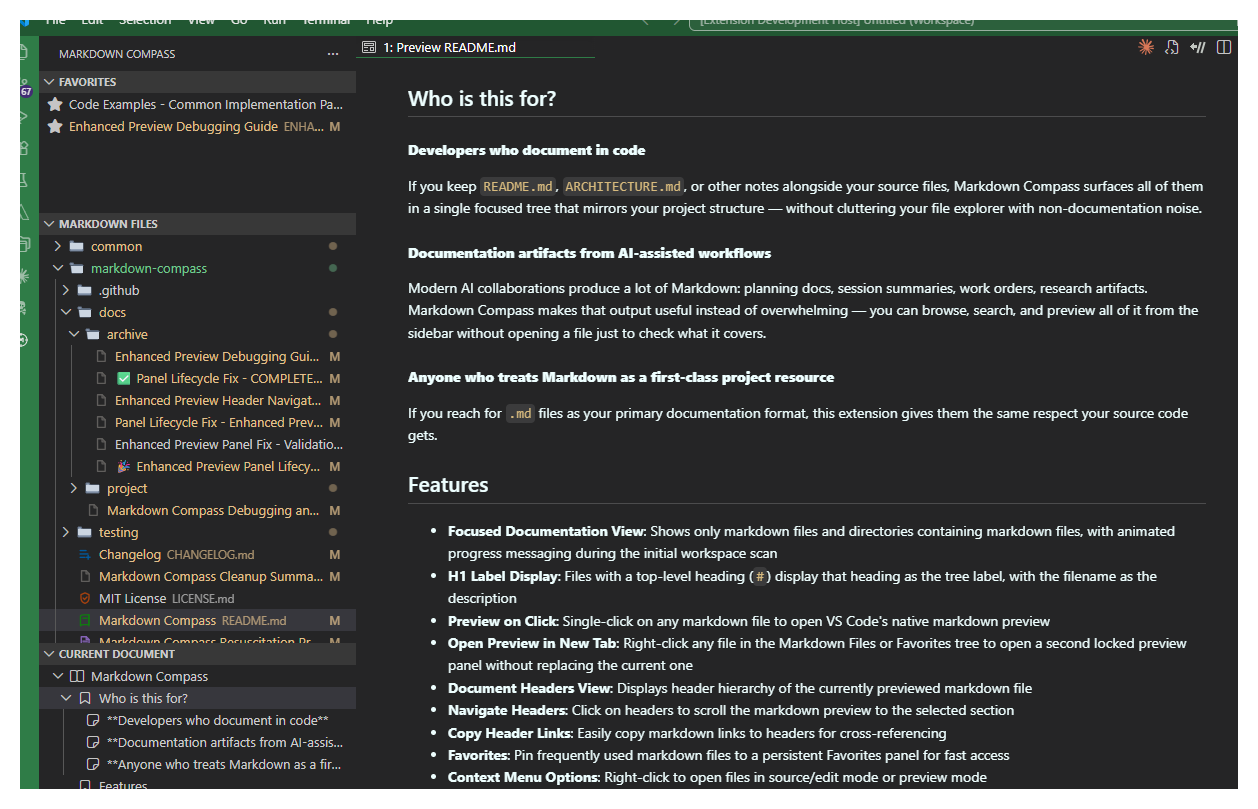
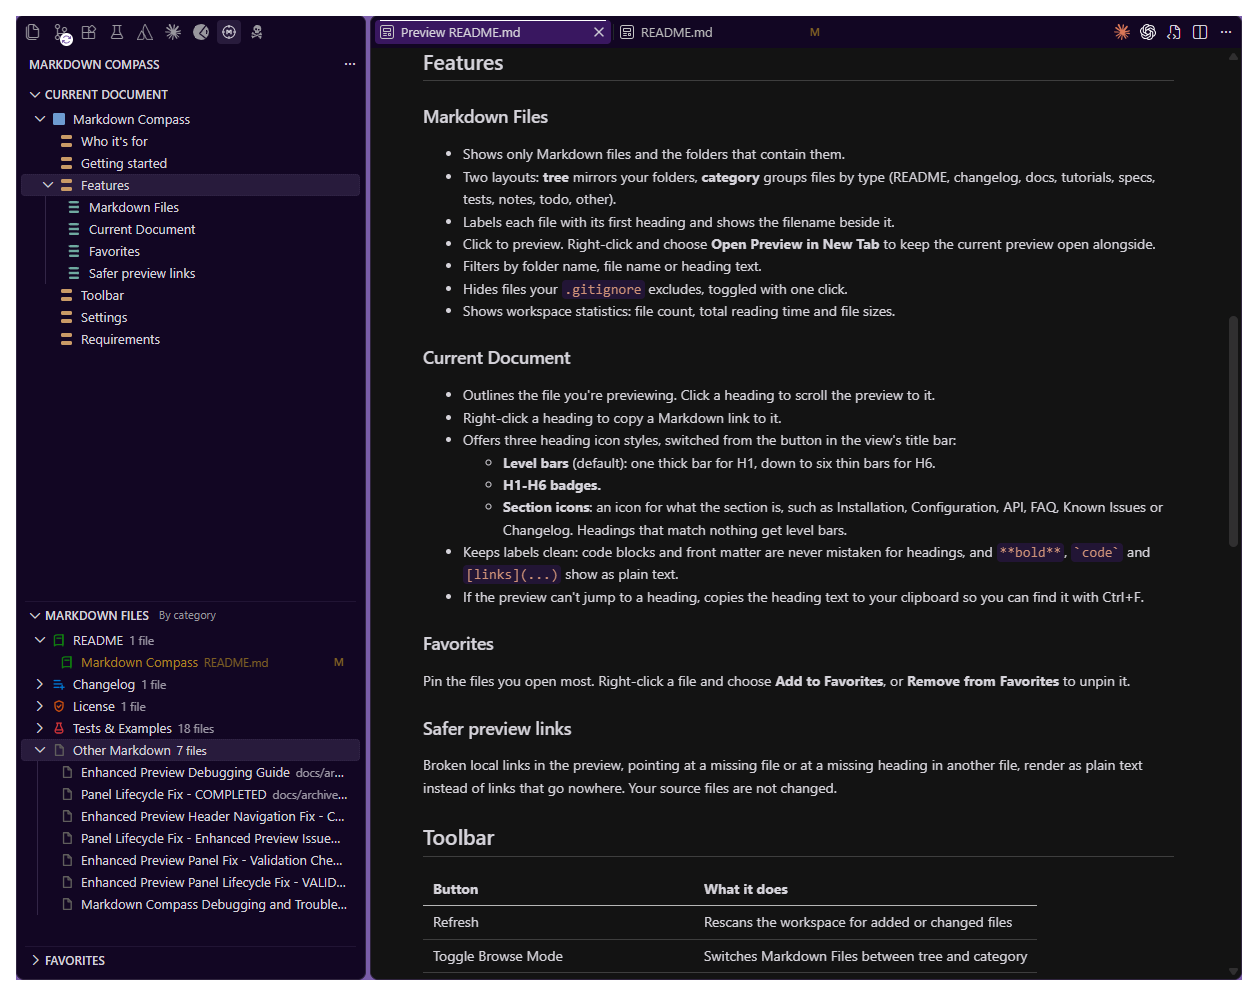
docs(release): prepare 1.7.3 for the Marketplace
Rewrite the README to skim: a three-step getting started, features
grouped by panel, and tables for the toolbar and settings. Drop claims
the code does not back (a right-click edit command, the filter icon for
.gitignore filtering, a three-step header fallback).

Replace the preview screenshot with one showing the level-bar heading
icons and clean heading labels, and close the changelog's Unreleased
section as 1.7.3.

diff --git a/README.md b/README.md
@@ -1,105 +1,82 @@
 # Markdown Compass
 
-Turn your codebase into a focused documentation hub by surfacing only its Markdown documents in a dedicated, navigable sidebar.
-
-When your workspace is full of Markdown files — whether that's code-adjacent `README.md` and `SPEC.md` files scattered across your project, or a growing library of documentation artifacts from AI-assisted workflows — finding and reading the right file gets tedious fast. Markdown Compass solves that by turning every `.md` file in your workspace into a structured, navigable sidebar so you spend less time hunting and more time reading.
+A sidebar for the Markdown in your workspace. Markdown Compass finds every `.md` file, gathers them into one tree, and opens each in VS Code's own preview with a single click.
 
 ![Markdown Compass preview](images/preview.png)
 
-## Who is this for?
+## Who it's for
 
-#### **Developers who document in code**
-If you keep `README.md`, `ARCHITECTURE.md`, or other notes alongside your source files, Markdown Compass surfaces all of them in a single focused tree that mirrors your project structure — without cluttering your file explorer with non-documentation noise.
+- **Developers who document in code.** The `README.md`, `ARCHITECTURE.md` and notes scattered through a project, in one tree, without the rest of the file explorer in the way.
+- **People working with AI assistants.** Plans, session summaries, work orders and research notes pile up fast. Browse, filter and preview them without opening each one to see what it covers.
+- **Anyone who writes docs in Markdown** and wants them as easy to reach as the code.
 
-#### **Documentation artifacts from AI-assisted workflows**
-Modern AI collaborations produce a lot of Markdown: planning docs, session summaries, work orders, research artifacts. Markdown Compass makes that output useful instead of overwhelming — you can browse, search, and preview all of it from the sidebar without opening a file just to check what it covers.
+## Getting started
 
-#### **Anyone who treats Markdown as a first-class project resource**
-If you reach for `.md` files as your primary documentation format, this extension gives them the same respect your source code gets.
+1. Click the Markdown Compass icon in the activity bar.
+2. Click a file in **Markdown Files** to open its preview.
+3. Use **Current Document** to jump between that file's headings.
+
+That's it. There is nothing to configure, and the settings below are optional.
 
 ## Features
 
-- **Focused Documentation View**: Shows only markdown files and directories containing markdown files, with animated progress messaging during the initial workspace scan
-- **Switchable Browse Modes**: Choose `tree` mode to mirror your workspace folders, or `category` mode to regroup markdown files by detected document type (README, changelog, docs, tutorials, specs, tests, notes, todo, and other markdown)
-- **H1 Label Display**: Files with a top-level heading (`#`) display that heading as the tree label, with the filename as the description
-- **Preview on Click**: Single-click on any markdown file to open VS Code's native markdown preview
-- **Open Preview in New Tab**: Right-click any file in the Markdown Files or Favorites tree to open a second locked preview panel without replacing the current one
-- **Document Headers View**: Displays header hierarchy of the currently previewed markdown file. Each heading's icon shows its level as one to six colored bars. Set `markdownCompass.headingIcons` to `levels` for H1-H6 badges instead, or to `sections` for an icon for what the section is (Installation, Configuration, API, FAQ, Known Issues, Changelog, License and about thirty others), with icons for code-shaped headings such as `getTreeItem()` and changelog versions. Lines inside code blocks and front matter are not mistaken for headings, and inline Markdown such as `**bold**` or `[links](...)` is shown as plain text
-- **Navigate Headers**: Click on headers to scroll the markdown preview to the selected section
-- **Copy Header Links**: Easily copy markdown links to headers for cross-referencing
-- **Favorites**: Pin frequently used markdown files to a persistent Favorites panel for fast access
-- **Context Menu Options**: Right-click to open files in source/edit mode or preview mode
-- **Hierarchical Display**: Matches the directory structure of your workspace (displays only those folders containing Markdown files)
-- **Collapsible Sections**: Ability to collapse directories for better organization
-- **Toggle .gitignore Filtering**: Enable or disable .gitignore filtering with one click
-- **Search and Filter**: Fuzzy-match markdown folder names, file names, and markdown headers using the built-in tree filter (both `Search Markdown Files` and `Filter in Sidebar` toolbar commands expose this same filter)
-- **File Statistics**: View comprehensive statistics including file count, total reading time, and file-size summary about your markdown documentation
+### Markdown Files
 
-## Usage
+- Shows only Markdown files and the folders that contain them.
+- Two layouts: **tree** mirrors your folders, **category** groups files by type (README, changelog, docs, tutorials, specs, tests, notes, todo, other).
+- Labels each file with its first heading and shows the filename beside it.
+- Click to preview. Right-click and choose **Open Preview in New Tab** to keep the current preview open alongside.
+- Filters by folder name, file name or heading text.
+- Hides files your `.gitignore` excludes, toggled with one click.
+- Shows workspace statistics: file count, total reading time and file sizes.
 
-1. Click on the Markdown Compass icon in the activity bar (sidebar)
-2. Browse through the "Markdown Files" view to find markdown files
-3. Use the browse-mode toolbar button (**Toggle Browse Mode**) to switch between `tree` and `category`
-4. (Optional) Set `markdownCompass.browseMode` to `tree` or `category` in settings to keep your preferred default
-5. Click once on a markdown file to open it in VS Code's native markdown preview
-6. The "Current Document" panel will automatically display the header structure of the previewed file
-7. Click on any header in the headers view to target that section in the markdown preview
-8. Right-click on any header to copy a markdown link to it for cross-referencing
-9. Right-click any file in the Markdown Files or Favorites tree and choose **Open Preview in New Tab** to open an additional locked preview alongside the current one
-10. Use the **Search** or **Filter in Sidebar** toolbar buttons to filter the tree by folder name, markdown file name, or markdown header text — both buttons expose the same fuzzy filter
-11. Use the refresh button to update the view if files are added or changed
-12. Click on the filter icon to toggle .gitignore filtering on/off
-13. Use the statistics button to view comprehensive information about your markdown files
-14. Right-click any file and choose **Add to Favorites** to pin it in the Favorites panel; use **Remove from Favorites** to unpin it
+### Current Document
 
-## Search Scope
+- Outlines the file you're previewing. Click a heading to scroll the preview to it.
+- Right-click a heading to copy a Markdown link to it.
+- Offers three heading icon styles, switched from the button in the view's title bar:
+  - **Level bars** (default): one thick bar for H1, down to six thin bars for H6.
+  - **H1-H6 badges.**
+  - **Section icons**: an icon for what the section is, such as Installation, Configuration, API, FAQ, Known Issues or Changelog. Headings that match nothing get level bars.
+- Keeps labels clean: code blocks and front matter are never mistaken for headings, and `**bold**`, `` `code` `` and `[links](...)` show as plain text.
+- If the preview can't jump to a heading, copies the heading text to your clipboard so you can find it with Ctrl+F.
 
-The Markdown Files search is a live tree filter, not a separate full-text index. It currently matches:
+### Favorites
 
-- directory names shown in the Markdown Files tree
-- markdown file names ending in `.md`
-- markdown headers extracted from those files (`#` through `######`)
+Pin the files you open most. Right-click a file and choose **Add to Favorites**, or **Remove from Favorites** to unpin it.
 
-It does not currently search paragraph/body text, link URLs, or non-Markdown files.
+### Safer preview links
 
-When `.gitignore` filtering is enabled, ignored paths are excluded from both the tree and search results.
+Broken local links in the preview, pointing at a missing file or at a missing heading in another file, render as plain text instead of links that go nowhere. Your source files are not changed.
 
-## Header Navigation
+## Toolbar
 
-When you click on a header in the "Current Document" view, the extension targets VS Code's native markdown preview and attempts to move the preview to that heading using fragment-based navigation:
+| Button | What it does |
+| --- | --- |
+| Refresh | Rescans the workspace for added or changed files |
+| Toggle Browse Mode | Switches Markdown Files between tree and category |
+| Toggle .gitignore Filtering | Shows or hides files your `.gitignore` excludes |
+| Filter in Sidebar / Search Markdown Files | Both open the same filter |
+| Clear Search Filter | Appears while a filter is active |
+| Show Workspace Statistics | Opens the statistics summary |
+| Heading icon style (Current Document) | Steps through level bars, badges and section icons |
 
-1. **Fragment Navigation**: Uses VS Code's built-in anchor system (most reliable)
-2. **Alternative Anchors**: Tries different anchor formats if the first fragment does not land correctly
-3. **Fallback**: Reopens the preview with search guidance if fragment targeting cannot resolve the heading
+The filter matches folder names, file names and headings (H1 to H6). It does not search body text, link URLs or non-Markdown files.
 
-If automatic scrolling fails, the extension will provide the heading text and search guidance instead of silently leaving the preview at the wrong location.
+## Settings
+
+| Setting | Default | What it controls |
+| --- | --- | --- |
+| `markdownCompass.browseMode` | `tree` | Markdown Files layout: `tree` or `category` |
+| `markdownCompass.headingIcons` | `bars` | Current Document icons: `bars`, `levels` or `sections` |
+| `markdownCompass.headingEmoji` | `strip` | `strip` removes emoji from heading labels, `keep` shows them as written |
+| `markdownCompass.safeLinkSuppression.enabled` | `true` | Renders broken local links as plain text in the preview |
+
+A few details:
+
+- **Emoji.** Tooltips always show the original heading. With section icons on, an emoji with a known meaning, such as a warning sign or a check mark, still picks the heading's icon even when it is stripped from the label.
+- **Link suppression** applies to every native Markdown preview while Markdown Compass is active. Links to headings in the same file, working links, web URLs and links to non-Markdown files are left alone.
 
 ## Requirements
 
-No special requirements or dependencies. Markdown Compass uses VS Code's built-in Markdown preview — no external tools or preview engines to configure.
-
-## Extension Settings
-
-Markdown Compass contributes these settings:
-
-- `markdownCompass.browseMode` (default: `tree`) chooses the **Markdown Files** layout.
-	- `tree`: mirrors workspace folders and markdown file locations.
-	- `category`: groups markdown files by detected type (README, changelog, docs, tutorials, specs, tests, notes, todo, other).
-- `markdownCompass.headingEmoji` (default: `strip`) controls emoji in heading text shown in the **Current Document** view and in **Markdown Files** and **Favorites** labels taken from a file's first heading.
-	- `strip`: removes emoji from the label. With `headingIcons` set to `sections`, an emoji with a known meaning, such as a warning sign, a check mark or a bug, still picks the heading's icon.
-	- `keep`: shows the heading exactly as written.
-	- Tooltips always show the original heading.
-- `markdownCompass.headingIcons` (default: `bars`) chooses the **Current Document** icons. The button in the Current Document title bar steps through the three styles, and its icon shows the one in use.
-	- `levels`: an H1-H6 badge for each heading's level.
-	- `bars`: one to six horizontal bars for each heading's level, one thick bar for H1 down to six thin bars for H6.
-	- `sections`: an icon for what each section is, in theme colors, with the level bars for headings that match nothing.
-- `markdownCompass.safeLinkSuppression.enabled` (default: `true`) renders definitively broken local Markdown file links and broken cross-file Markdown heading fragments as inert styled text in VS Code's native Markdown preview.
-
-Anchor-only links, valid local links, external URLs, and local non-Markdown fragments that cannot be validated are left unchanged.
-
-## Almost-native Preview Styling
-
-Markdown Compass relies on VS Code's built-in markdown preview for rendering and styling.
-
-- The extension adds a small native preview stylesheet so suppressed broken local links render as neutral inert text instead of clickable anchors.
-- The safe-link behavior applies to all native Markdown previews while Markdown Compass is active.
+VS Code 1.100 or later. Previews use VS Code's built-in Markdown preview, so there is nothing else to install.

diff --git a/CHANGELOG.md b/CHANGELOG.md
@@ -2,7 +2,7 @@
 
 All notable changes to the "Markdown Compass" extension are documented in this file. Versions follow [Semantic Versioning](https://semver.org/spec/v2.0.0.html).
 
-## Unreleased
+## [1.7.3] - 2026-11-26
 
 - **Current Document shows each heading's level.** Each heading's icon shows its level as stacked bars, one thick bar for a top-level heading down to six thin ones, in a color per level that follows your light or dark theme. The new button in the Current Document title bar switches to H1 to H6 badges, then to icons that show what each section is, such as Installation, Configuration, API, FAQ, Known Issues, Changelog or License. The **Markdown Compass: Heading Icons** setting holds your choice.
 - **Choose whether headings show their emoji.** Headings in Current Document, Markdown Files and Favorites now drop emoji by default. Set **Markdown Compass: Heading Emoji** to `keep` to show headings exactly as written; tooltips always show the original.
